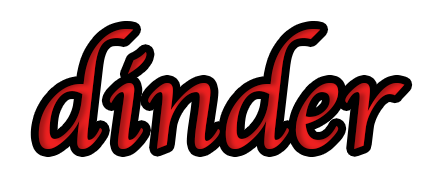
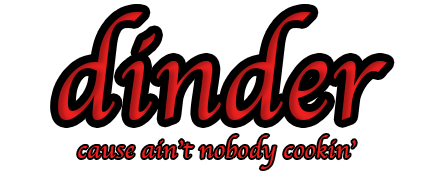
works on styling

diff --git a/src/views/LoginForm.js b/src/views/LoginForm.js
@@ -1,7 +1,10 @@
 import React, { Component } from 'react';
-import { Text, View } from 'react-native';
+import { Text, View, Image } from 'react-native';
 import firebase from 'firebase';
 import { Button, Card, CardSection, Input, Spinner } from '../components';
+
+var Picture2 = require('../images/title.jpg');
+
 
 class LoginForm extends Component {
   state = { email: '', password: '', error: '', loading: false };
@@ -47,7 +50,11 @@ class LoginForm extends Component {
 
   render() {
     return (
-      <Card style={{width: 100, marginTop: 100}}>
+      <Card style={{backgroundColor: 'skyblue'}}>
+      <Image
+      style={{borderColor: 'transparent', resizeMode: 'contain', backgroundColor: 'skyblue', marginLeft: 13,  height: 300, width: 350}}
+      source={Picture2}
+      />
         <CardSection>
           <Input
             placeholder="user@email.com"
@@ -68,7 +75,7 @@ class LoginForm extends Component {
           <Text style={styles.errorTextStyle}>
             {this.state.error}
           </Text>
-        <CardSection>
+        <CardSection style={{backgroundColor: 'skyblue'}}>
           {this.renderButton()}
         </CardSection>
       </Card>

diff --git a/src/app.js b/src/app.js
@@ -6,6 +6,7 @@ import Login from './views/LoginForm';
 import Main from './views/Main';
 
 var Picture = require('./images/dinder.png');
+var Picture2 = require('./images/title.jpg');
 
 class App extends Component {
   state = { loggedIn: null }
@@ -41,7 +42,7 @@ class App extends Component {
     return (
     <View>
       <Image 
-      style={{resizeMode: 'contain', height: 100, marginTop: 20, marginLeft: -20, backgroundColor: 'skyblue'}}
+      style={{resizeMode: 'contain', height: 100,  marginLeft: -20, backgroundColor: 'skyblue'}}
       source={Picture}
       />
       <View style={{backgroundColor: 'skyblue'}}>

diff --git a/src/views/Main.js b/src/views/Main.js
@@ -881,7 +881,7 @@ class Main extends Component {
 
   render(){
     return (
-    <View>
+    <View >
       <Button onPress={() => firebase.auth().signOut()} title={'Log Out'} style={{height: 100}}/>
       <ScrollView style={{backgroundColor: 'skyblue'}}>
         {              

diff --git a/src/components/Button.js b/src/components/Button.js
@@ -23,9 +23,8 @@ const styles = {
   },
   buttonStyle: {
     flex: 1,
-    alignSelf: 'stretch',
-    backgroundColor: '#fff',
-    borderRadius: 5,
+    backgroundColor: 'white',
+    borderRadius: 10,
     borderWidth: 1,
     borderColor: '#007aff',
     marginLeft: 5,
